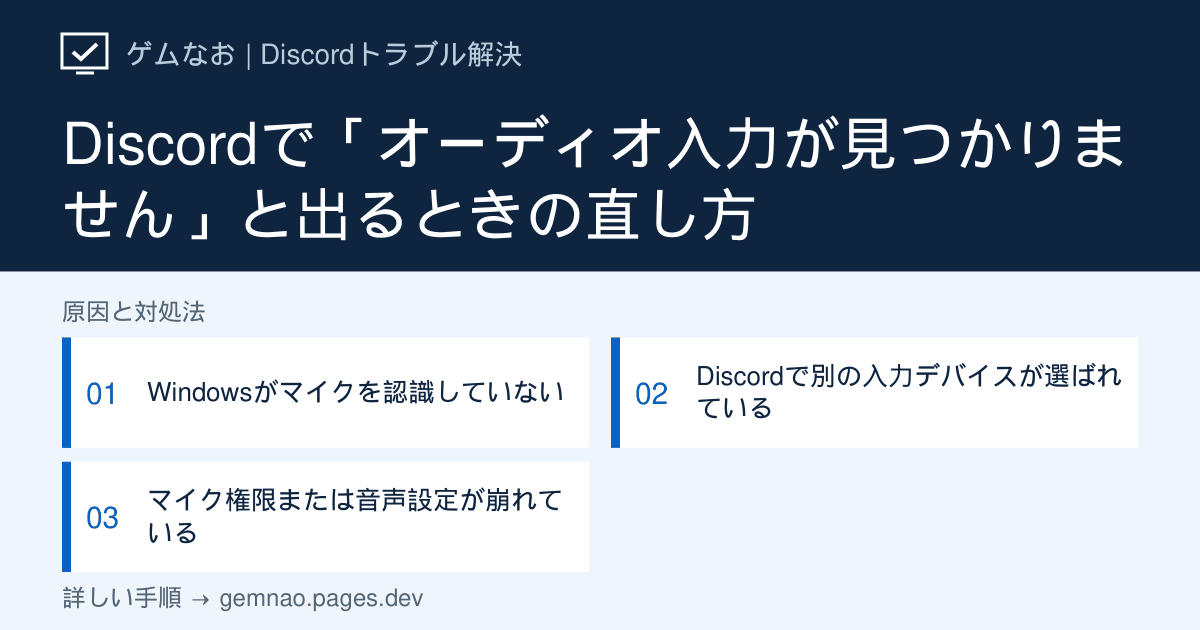
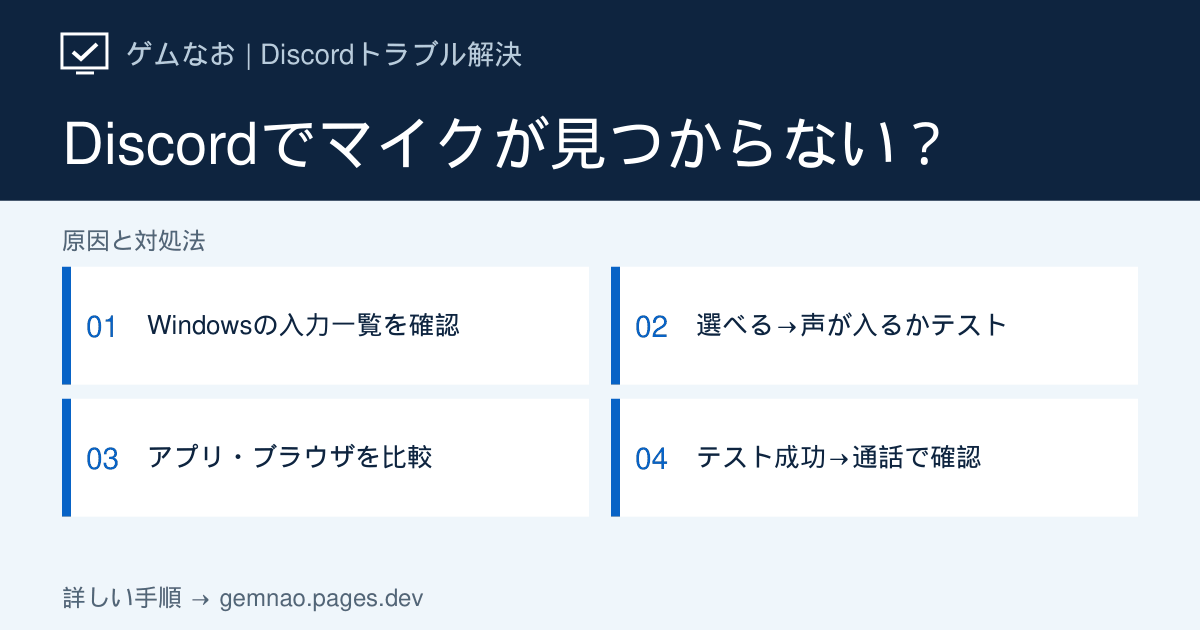
Rewrite Discord input detection guide with Windows and browser test branches

diff --git a/lib/discord-p0-articles.ts b/lib/discord-p0-articles.ts
@@ -19,10 +19,6 @@ const voiceVideoGuide = official(
   '360045138471',
   '音声・ビデオのトラブルシューティング',
 );
-const missingInputGuide = official(
-  '214925018',
-  '音声入力が見つからない・音声トラブル',
-);
 const errorCodeGuide = official('30952914470807', '音声・動画のエラーコード');
 const systemHelperGuide = official('34853435033367', 'Discordシステムヘルパー');
 const overlayGuide = official('217659737', 'ゲームオーバーレイ101');
@@ -208,81 +204,95 @@ export const discordP0Articles: DiscordArticle[] = [
     ogSteps: ['初回・再導入で手順を選ぶ', '削除前にSetup Logを保存', 'なし・使用中・拒否を区別', '再起動後も開くか確認'],
   },
   {
-    slug: 'audio-input-not-found',
-    category: 'audio',
-    title: 'Discordで「オーディオ入力が見つかりません」と出るときの直し方',
+    slug: 'audio-input-not-found', category: 'audio',
+    title: 'Discordでオーディオ入力が見つからない｜Windows・アプリ・ブラウザで切り分け',
     shortTitle: 'オーディオ入力が見つからない',
-    seoTitle: 'Discordでオーディオ入力が見つからない・マイクを認識しない場合',
-    metaDescription:
-      'Discordでオーディオ入力が見つからない、入力デバイスが表示されない、マイクを認識しない場合のWindows向け切り分け手順です。',
-    symptom:
-      'Discordの音声設定に「オーディオ入力が見つかりません」と表示される、入力デバイス一覧にマイクが出ない、またはマイクテストへ音が入らない場合の手順です。',
-    target: 'Windows 11 / Windows 10版 Discordデスクトップアプリ・ブラウザ版',
-    conclusion:
-      'まずWindowsがマイクを認識しているかを確認し、Discordの入力デバイスを明示的に選びます。ブラウザ版ではサイトのマイク権限も確認してください。',
-    quickFixes: [
-      'Windowsのサウンド設定で対象マイクに入力レベルが表示されるか確認する',
-      'Discordの「音声・ビデオ」で正しい入力デバイスを選ぶ',
-      'Windowsまたはブラウザのマイク権限を許可してDiscordを再起動する',
+    seoTitle: 'Discordでオーディオ入力が見つからない｜マイク一覧・入力テストで確認',
+    metaDescription: 'マイクが一覧にない場合と、選べるのに声が入らない場合を分けて解説。Windowsの入力テスト、Discordの機器選択、ブラウザのマイク許可を比較し、結果に応じて次の操作を選べます。',
+    symptom: '「オーディオ入力が見つかりません」と表示される、入力デバイスに目的のマイクがない、または選択しても声が入らない場合の手順です。',
+    target: 'Windows 11／Windows 10のDiscordデスクトップアプリ・ブラウザ版（Chromeの操作例）',
+    conclusion: 'まずWindowsの入力一覧に目的のマイクがあるか、次にWindowsのテストで声が入るかを確認します。Windowsでは成功するならDiscordの入力機器とアクセス許可へ。ブラウザ版だけ失敗するならdiscord.comのサイト権限を確認。Discordのテストも成功するなら、未認識ではなく通話中のミュートや入力モードを調べます。',
+    quickFixes: ['同じマイク名を使い、Windowsの入力一覧とテスト結果を確認する', 'Windowsで成功したら、Discordアプリとブラウザ版を1つずつ比較する', '一覧にない・声が入らない・テスト成功の結果に合う手順へ進む'],
+    showStatusCheck: false,
+    diagnosisTitle: 'マイクはどこまで認識される？ 一覧とテスト結果の判断表',
+    diagnosisIntro: '「一覧にある」は機器を選べる状態、「テスト成功」は声の入力を確認できた状態です。この2つを分け、同じマイク・同じ距離で「音声チェック、今日はこの声で話します」と話して比較します。',
+    diagnosis: [
+      { symptom: 'Windowsの入力一覧に目的のマイクがない', check: '接続・入力対応・別ポートを確認。Discordの初期化は後回し', causeIndex: 1 },
+      { symptom: 'Windowsでは選べるが、テストに声が入らない', check: '物理ミュート・入力音量・Windowsでの録音を確認', causeIndex: 2 },
+      { symptom: 'Windowsのテスト成功／Discordアプリでは出ない・無反応', check: 'Windowsのデスクトップアプリ許可とDiscordの入力機器を確認', causeIndex: 3 },
+      { symptom: 'アプリでは成功／ブラウザ版だけ失敗', check: 'discord.comのサイト権限とブラウザの使用マイクを確認', causeIndex: 4 },
+      { symptom: 'Windowsは成功／アプリ・ブラウザの両方で失敗', check: '共通するWindowsのアクセス許可を確認し、片方ずつ再テスト', causeIndex: 3 },
+      { symptom: 'Discordのテストは成功／通話相手には届かない', check: '認識はできている。ミュート・入力モード・通話先を確認', causeIndex: 5 },
     ],
     causes: [
       {
-        title: 'Windowsがマイクを認識していない',
-        description:
-          'Discordより前の段階で入力がない場合は、接続やWindows側を先に確認します。',
+        title: 'Windowsの入力一覧にないなら、接続と入力機器を確認する',
+        description: 'イヤホンから音が出ることと、マイク入力が使えることは別です。最初にWindowsが入力機器として扱えているかを確認します。',
         actions: [
-          'Windowsの「設定」から「システム」→「サウンド」を開く',
-          '入力欄に使用するマイクが表示されるか確認する',
-          '話したときに入力音量のメーターが動くか確認する',
-          'USBマイクなら接続し直し、別のUSBポートでも試す',
+          'Windowsの「設定」→「システム」→「サウンド」を開き、「入力」に目的のマイクがあるか見る。出力側のスピーカー一覧と混同しない。表示された機器名を控える。',
+          'USB接続なら挿し直し、可能ならハブを外してPCの別ポートへ直接接続する。一覧に現れたらSTEP 2へ。Bluetoothなら接続状態だけでなく、入力側にも機器が現れるか確認する。',
+          '3.5mm接続ではマイク対応の端子・ヘッドセットかを製品の説明で確認する。アナログマイクは製品名ではなくPCのオーディオ機器名で表示される場合があるため、名前だけで未認識と判断しない。',
+          '別のマイクがあれば同じPCで比較する。元の機器だけ出ない場合は機器・ケーブル・接続側、複数の機器が出ない場合はWindows側を優先して調べる。これだけで故障とは断定しない。',
+          '接続確認でも出ない場合は、PC・機器メーカーの公式案内で対応条件とドライバーを確認する。Discordを再インストールしてもWindowsの入力一覧が直るとは限らない。',
         ],
       },
       {
-        title: 'Discordで別の入力デバイスが選ばれている',
-        description:
-          '既定デバイスの変更後もDiscordが以前のマイクを選び続けることがあります。',
+        title: '一覧にはあるが声が入らないなら、Windowsのテストで確認する',
+        description: 'マイクの物理ミュート、音量、別のマイクの選択を先に調べます。比較中は会議・録音アプリを終了し、テストを1つずつ実行します。',
         actions: [
-          'Discordのユーザー設定を開く',
-          '「音声・ビデオ」の音声タブを開く',
-          '入力デバイスで実際に使うマイクを選ぶ',
-          'マイクテストで自分の声が再生されるか確認する',
+          'ヘッドセットのミュートスイッチや取り外し式マイクの接続を確認する。Windows 11ではサウンドの「入力」から対象機器のプロパティを開く。',
+          '「テストの開始」に相当する操作で普段の声を録り、停止後に結果を確認する。再生ボタンがある画面では録音も聞く。Windows 10ではサウンド設定の入力機器を選び、マイクのテストのメーターを見る。',
+          '入力音量が0や極端に低ければ元の値を控えて少しずつ上げ、同じ文章で再テストする。音割れするほど上げない。反応が出ればSTEP 3へ進む。',
+          '判断しにくければサウンド レコーダー（Windows 10はボイス レコーダー）でも、同じマイクが選ばれていることを確認して短く録音する。録音アプリの利用許可も必要。',
+          'メーターは動くのに再生だけ聞こえない場合は、別の動画などで出力先の音を確認する。録音を聞けないことだけでマイク未認識と判断しない。Windows側で反応がないままなら接続・入力設定を優先する。',
         ],
       },
       {
-        title: 'マイク権限または音声設定が崩れている',
-        description:
-          'Windowsのプライバシー設定やブラウザのサイト権限で入力が止められている場合があります。',
+        title: 'Windowsでは成功するなら、アプリの許可と入力機器をそろえる',
+        description: 'Windowsで使えるマイクでも、Discordへのアクセスが許可されていない場合があります。既定値任せにせず、比較時は同じ機器を明示します。',
         actions: [
-          'Windowsの「プライバシーとセキュリティ」→「マイク」を開く',
-          'マイクへのアクセスとデスクトップアプリのアクセスを許可する',
-          'ブラウザ版はアドレスバーのサイト設定でdiscord.comのマイクを許可する',
-          '直らなければDiscordの音声・ビデオ設定をリセットして再設定する',
+          'Windows 11は「設定」→「プライバシーとセキュリティ」→「マイク」、Windows 10は「設定」→「プライバシー」→「マイク」を開く。マイクへのアクセスと、デスクトップアプリのアクセス許可を確認する。',
+          '通常のDiscordデスクトップアプリは、Microsoft Storeアプリの個別スイッチ一覧に出ないことがある。「Discordが一覧にない」だけで未インストールと判断せず、デスクトップアプリ用の許可を確認する。',
+          'Discord左下の歯車→「音声・ビデオ」→音声の項目で、「入力デバイス」にWindowsで成功したマイクを選ぶ。「Default」では別機器が使われる可能性があるため、切り分け時は機器名を指定する。',
+          '入力音量と出力先を確認し、マイクテストを開始する。同じ文章が再生されればSTEP 5へ。機器が出ない場合は接続したままDiscordを通知領域から終了し、起動し直して一覧を確認する。',
+          'まだ失敗する場合は、アプリを終了してSTEP 4のブラウザ版と比較する。ブラウザだけ成功ならアプリ側、両方失敗なら共通する許可・機器選択を再確認する。',
+        ],
+      },
+      {
+        title: 'ブラウザ版だけ失敗するなら、サイト権限と使用マイクを確認する',
+        description: 'Windowsからブラウザへの許可と、ブラウザからdiscord.comへの許可は別です。ここではChromeを例にします。',
+        actions: [
+          '同じPCで https://discord.com/app を開く。アドレスバー左側のサイト情報・設定アイコンから、マイクの許可を確認する。初回の許可画面が出た場合はdiscord.comであることを確認して許可する。',
+          '許可画面が出ない場合はChromeの「設定」→「プライバシーとセキュリティ」→「サイトの設定」→「マイク」を開く。ブロック中のdiscord.comがあれば、そのサイトの設定を見直す。全サイトを無条件に許可する必要はない。',
+          'マイク選択の項目がある場合はWindowsで確認した機器を選び、Discordのページを再読み込みする。ブラウザ版の「音声・ビデオ」でも入力機器を確認してテストする。',
+          '許可後に一覧へ現れ、テストで声が入れば通話確認へ。設定が管理されて変更できない場合は、管理者にサイトとマイク利用の制限を確認してもらう。',
+          'ブラウザでは成功しアプリだけ失敗する場合は、アプリの入力設定を控えて完全終了・再起動する。それでも直らない場合だけ、音声・ビデオのデバッグ欄にある設定リセットを検討し、機器・入力モードを選び直して再テストする。',
+        ],
+      },
+      {
+        title: 'テスト成功なら、実際の通話で届くかを確認する',
+        description: 'マイクテストで声が入るなら、その時点では入力機器を利用できています。相手に届かない問題は、機器の未認識から通話設定の確認へ切り替えます。',
+        actions: [
+          'テストを停止して通話に入り、Discordのマイクミュートと入力モードを確認する。Push-to-Talkなら割り当てたキーを押して話す。',
+          '同じ文章を相手に聞いてもらう。別の通話・チャンネルでは届くなら、元のチャンネルの発言権限やサーバーミュートを管理者と確認する。',
+          'テスト成功でも全通話で届かない場合は関連記事「マイクが反応しない」へ。声は届くが小さい場合は「マイク・自分の声が小さい」へ進み、機器の再接続を繰り返さない。',
+          '最後にDiscordを起動し直し、同じマイクが選択され、相手に声が届くか再確認する。再接続時だけ戻るなら、そのタイミングと機器名を記録する。',
         ],
       },
     ],
-    ifNotFixed:
-      'Windowsのボイスレコーダーなど別アプリでも入力できない場合は、Discordではなく機器・接続・ドライバー側の問題です。別アプリでは使える場合は、Discordの設定画面とマイクテスト結果を添えて公式サポートへ連絡してください。',
+    ifNotFixed: '相談時は「機器名・接続方式／Windows一覧の有無／Windowsテスト結果／Discordアプリの一覧とテスト／ブラウザ版の一覧とテスト」を1行ずつまとめます。未確認は未確認と記録し、設定画面の画像からユーザー名やサーバー名を隠して公式サポートへ送ってください。',
     faqs: [
-      {
-        question: '入力デバイスを「Default」のままにしてよいですか？',
-        answer:
-          '既定デバイスが正しければ使えますが、切り分け時はマイク名を明示的に選ぶと、別デバイスへ切り替わっている問題を除外できます。',
-      },
-      {
-        question: 'ブラウザ版だけマイクが見つかりません',
-        answer:
-          'ブラウザのサイト権限でdiscord.comのマイク利用が拒否されていないか確認し、許可後にページを再読み込みしてください。',
-      },
-      {
-        question: 'Bluetoothヘッドセットが入力に出ません',
-        answer:
-          'Windowsのサウンド設定でヘッドセットの入力デバイス自体が表示されるか確認してください。表示されない場合はBluetoothの再接続とWindows側の入力確認を先に行います。',
-      },
+      { question: '入力一覧にマイクがあれば認識は正常ですか？', answer: '機器を選べることは確認できますが、声が入ることまでは分かりません。Windowsの入力テスト、Discordのマイクテスト、実際の通話を順に確認してください。' },
+      { question: 'Windowsのマイク許可一覧にDiscordがありません', answer: 'デスクトップアプリはStoreアプリの個別スイッチ一覧に出ない場合があります。デスクトップアプリのマイクアクセスを許可する項目を確認します。' },
+      { question: 'Bluetoothで音は聞こえるのに入力に出ません', answer: '出力が使えることとマイク入力が使えることは別です。Windowsの入力一覧を確認し、製品のマイク対応と接続状態を調べます。通話開始時に音質だけ変わる場合はBluetooth音声の記事も参照してください。' },
+      { question: 'Defaultと機器名の指定は何が違いますか？', answer: 'Defaultは既定の機器に依存します。比較時はWindowsでテストした機器名を選ぶと、別のマイクを試していたという取り違えを減らせます。' },
+      { question: '最初からDiscordの音声設定をリセットしてよい？', answer: 'まずWindowsの認識・テストとブラウザ比較を確認してください。リセットする場合は元の機器選択や入力モードを控え、アプリだけ失敗する場合の後半の手順として使います。' },
     ],
-    sources: [missingInputGuide, voiceVideoGuide],
-    related: ['mic-not-working', 'cant-hear-voice', 'error-1003'],
-    checkedAt: '2026-09-17',
-    status: 'verified',
+    sources: [voiceVideoGuide, { label: 'Microsoft公式：マイクの設定とテスト', url: 'https://support.microsoft.com/ja-jp/windows/hardware/drivers/how-to-set-up-and-test-microphones-in-windows' }, { label: 'Microsoft公式：マイクのアクセス許可', url: 'https://support.microsoft.com/ja-jp/windows/privacy/turn-on-app-permissions-for-your-microphone-in-windows' }, { label: 'Microsoft公式：マイクの問題を解決する', url: 'https://support.microsoft.com/en-us/windows/hardware/drivers/fix-microphone-problems' }, { label: 'Google公式：Chromeでカメラとマイクを使用する', url: 'https://support.google.com/chrome/answer/2693767?hl=ja' }],
+    related: ['mic-not-working', 'mic-volume-low', 'bluetooth-audio-problem'],
+    checkedAt: '2026-09-28', status: 'verified',
+    ogTitle: 'Discordでマイクが見つからない？',
+    ogSteps: ['Windowsの入力一覧を確認', '選べる→声が入るかテスト', 'アプリ・ブラウザを比較', 'テスト成功→通話で確認'],
   },
   {
     slug: 'error-1001',

diff --git a/lib/og-image-manifest.ts b/lib/og-image-manifest.ts
@@ -1,7 +1,7 @@
 // Generated by scripts/generate-og-cards.mjs. Do not edit by hand.
 // Page path -> hash of the card text (used as a cache-busting query).
 export const ogImageManifest: Record<string, string> = {
-  "/discord/audio-input-not-found": "3a73fd7c",
+  "/discord/audio-input-not-found": "2fd2279d",
   "/discord/bluetooth-audio-problem": "204d6798",
   "/discord/bot-add": "77bf7c24",
   "/discord/bot-not-responding": "ee315b02",
